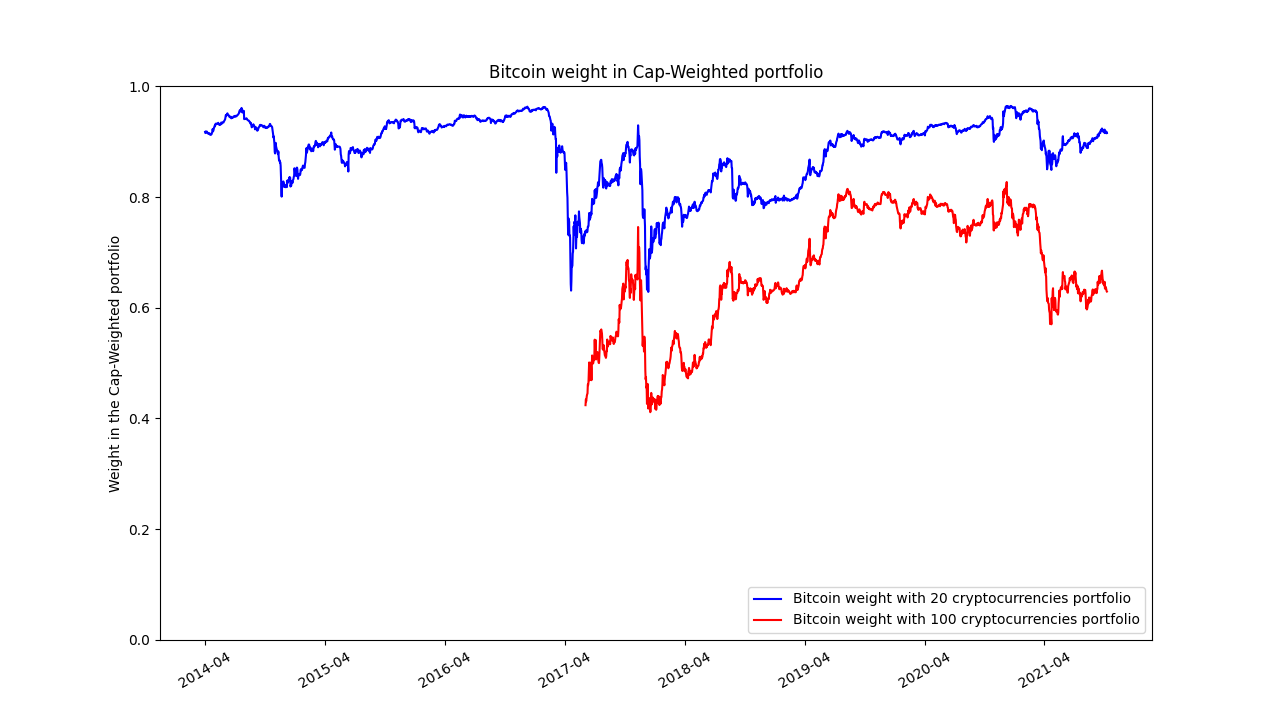
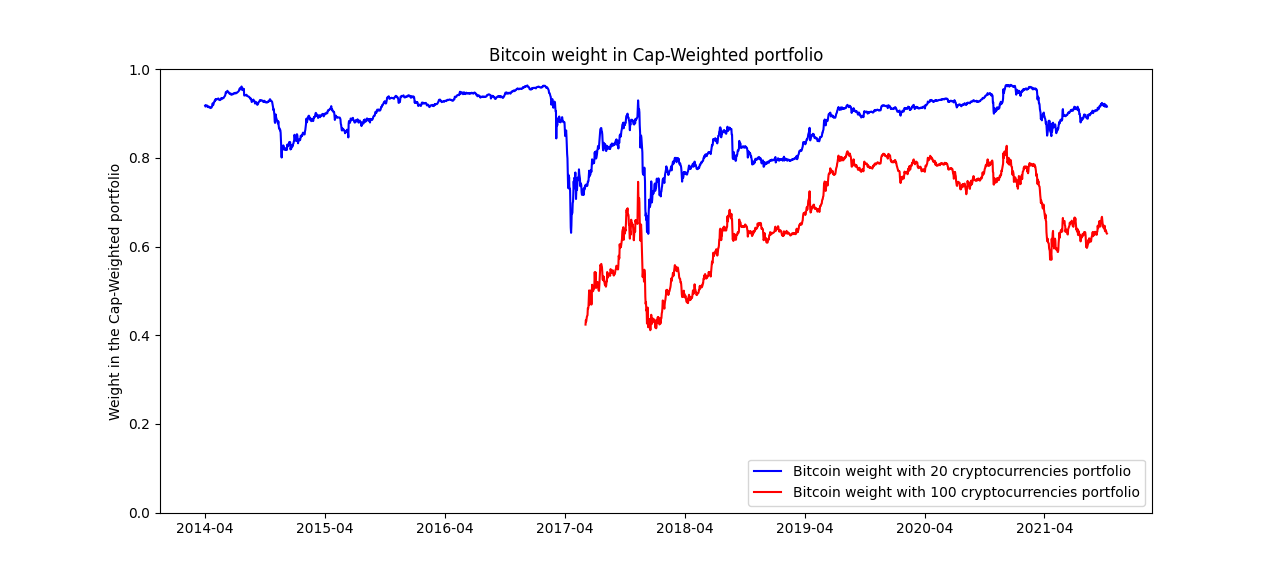
graph all

diff --git a/graph_maker.py b/graph_maker.py
@@ -12,7 +12,6 @@ K = 365 #number of days between each xticks
 
 
 #Bitcoin prevalence on Cap-weighted
-"""
 CW_weights_20 = pd.read_csv(f"{path_data_processed}/CW_weights_20_1e{marketcap[-1]}.csv", index_col=0)
 CW_weights_100 = pd.read_csv(f"{path_data_processed}/CW_weights_100_1e{marketcap[-1]}.csv", index_col=0)
 
@@ -71,7 +70,7 @@ plt.ylabel('Log Portfolio Price Performance')
 plt.savefig('graphs/low_beta_comp.png', format="png")
 plt.show()
 plt.clf()
-"""
+
 
 #Table of Sharpe taking into account turnover at 0.3% per trans
 
